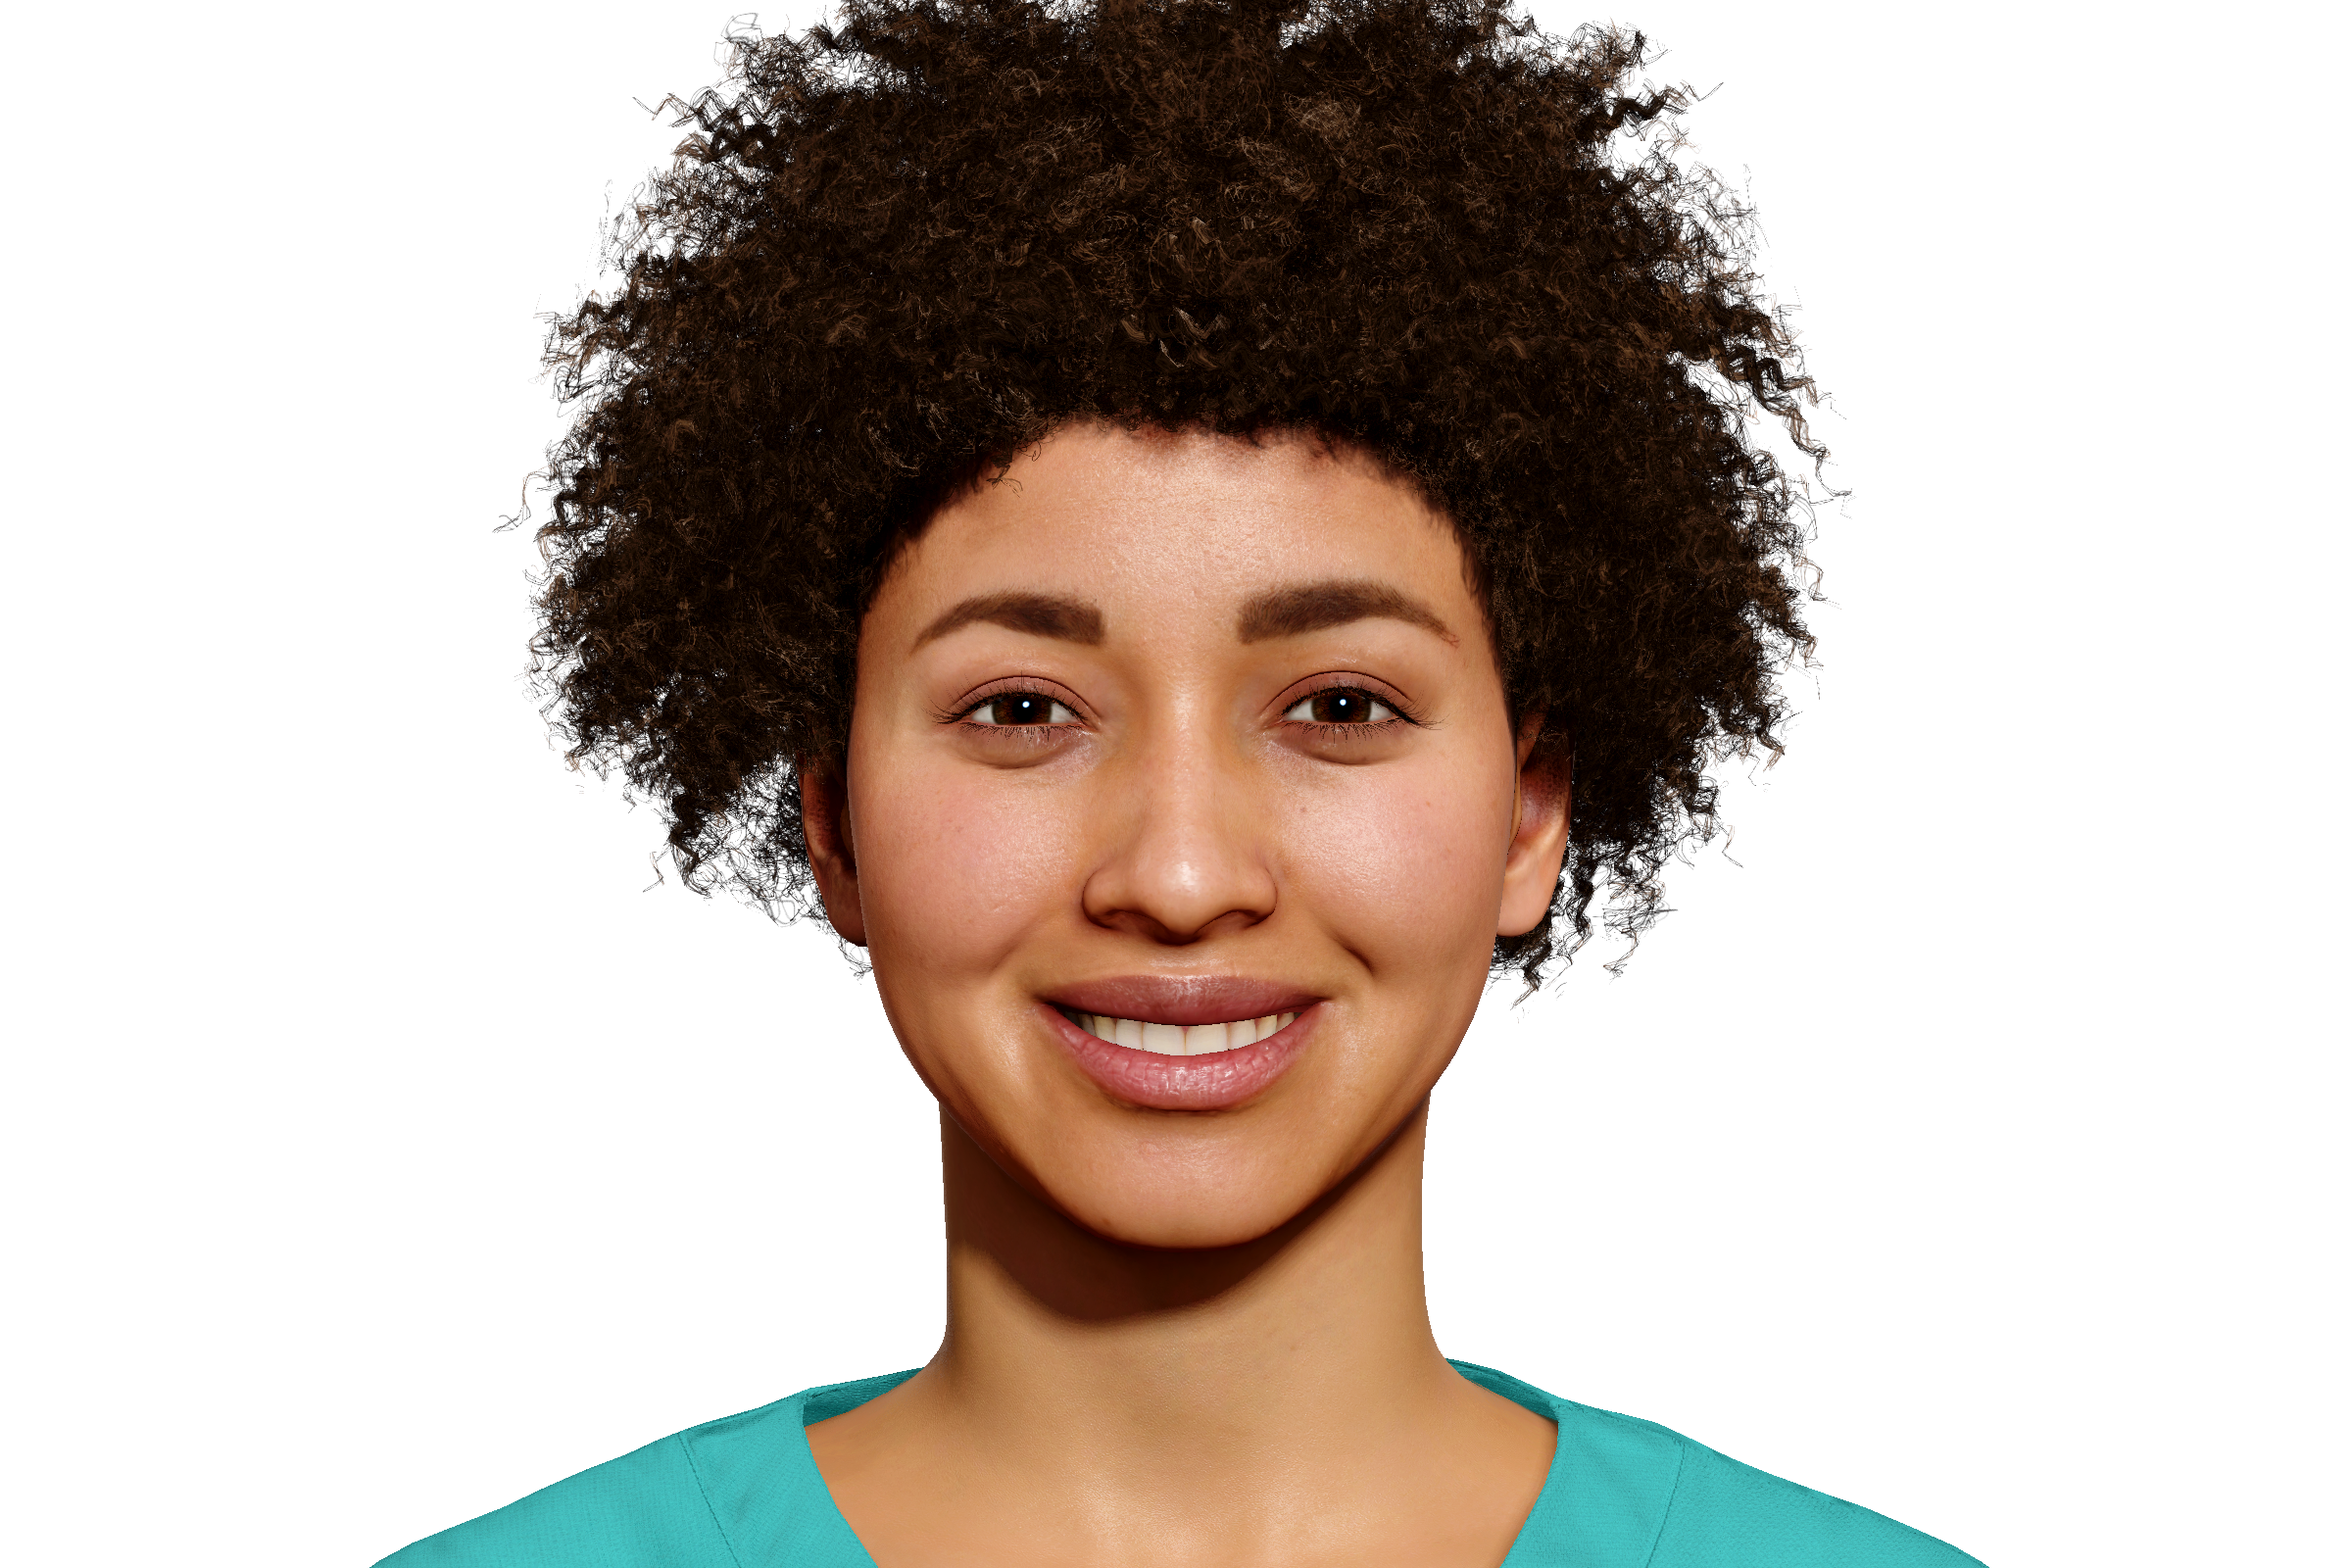
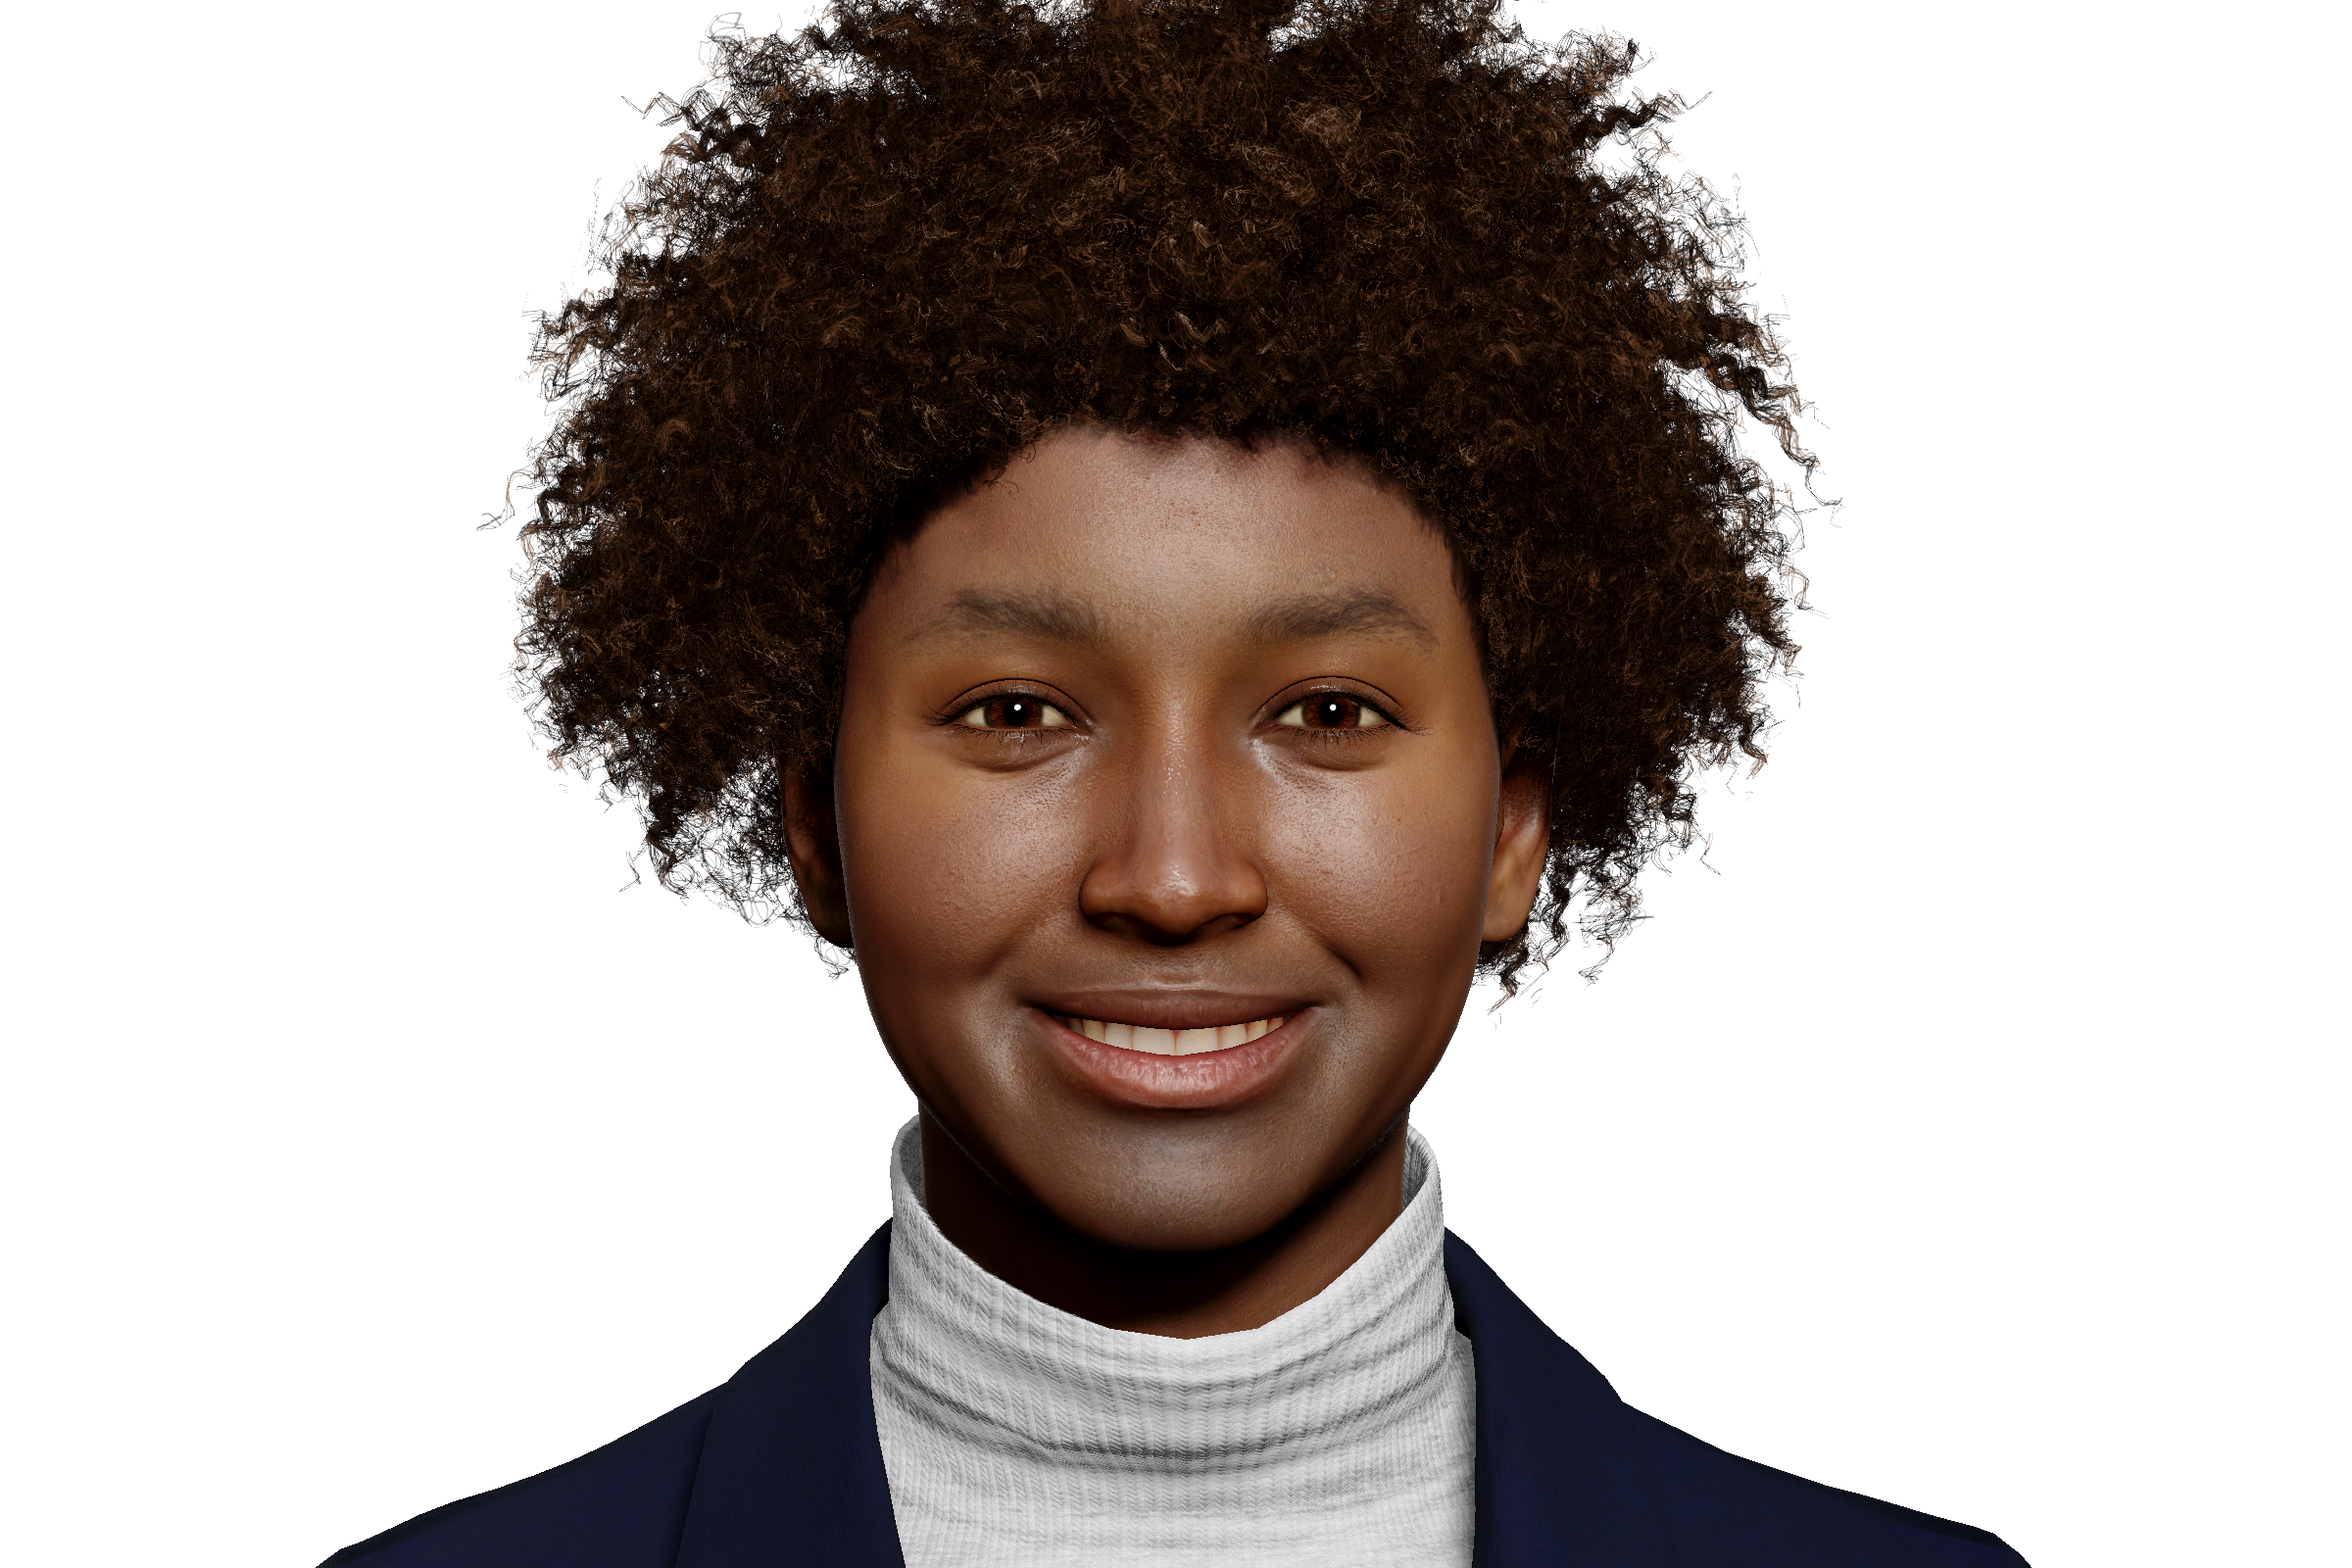
feat: added new digital person

Changed region(s): [[0.125, 0.0, 0.875, 1.0]]

diff --git a/src/routes/Landing.js b/src/routes/Landing.js
@@ -24,13 +24,13 @@ function Landing({ className }) {
             <div className="col-12 col-lg-6">
               <div className="row" style={{ marginBottom: '9px' }}>
                 <div>
-                  <h1 className="fw-bol">Fale com a Júlia, especialista em Colonoscopia da Ferring</h1>
+                  <h1 className="fw-bol">Fale com a Yara, especialista em atendimento ao consumidor da Sabesp</h1>
                 </div>
               </div>
               <div className="row">
                 <div>
                   <h4 className="fw-light" style={{ marginBottom: '31px' }}>
-                    Faça perguntas para a nossa especialista hiper-realista
+                    Faça perguntas para a nossa Pessoa Digital Hiper-realista
                   </h4>
                 </div>
               </div>
@@ -89,7 +89,7 @@ function Landing({ className }) {
                     className="shadow btn primary-accent fs-3"
                     type="button"
                   >
-                    Converse com a Júlia
+                    Converse com a Yara
                   </Link>
                 </div>
               </div>

diff --git a/src/components/STTFeedback.js b/src/components/STTFeedback.js
@@ -34,14 +34,14 @@ function STTFeedback({ className }) {
         `}
     >
       <div className="text-wrap text-start input-display">
-        {userSpeaking ? 'Listening: ' : 'DP heard: '}
+        {userSpeaking ? 'Ouvindo: ' : 'Yara ouviu: '}
         {placeholder || lastUserUtterance}
         {
           userSpeaking
             ? (
               <div>
                 <div className="spinner-border spinner-border-sm ms-1" role="status">
-                  <span className="visually-hidden">Loading...</span>
+                  <span className="visually-hidden">Carregando...</span>
                 </div>
               </div>
             )

diff --git a/public/index.html b/public/index.html
@@ -26,7 +26,7 @@
       work correctly both with client-side routing and a non-root public URL.
       Learn how to configure a non-root public URL by running `npm run build`.
     -->
-    <title>React Reference UI Template</title>
+    <title>Pessoa Digital Hiper-realista: Sabesp</title>
   </head>
   <body>
     <noscript>You need to enable JavaScript to run this app.</noscript>

diff --git a/src/routes/Loading.js b/src/routes/Loading.js
@@ -181,7 +181,7 @@ function Loading({
                         onClick={() => setPage(page + 1)}
                         style={{ backgroundColor: '#3C3C3C', border: '2px solid #3C3C3C' }}
                       >
-                        Next
+                        Próximo
                       </button>
                     )
                     : null
